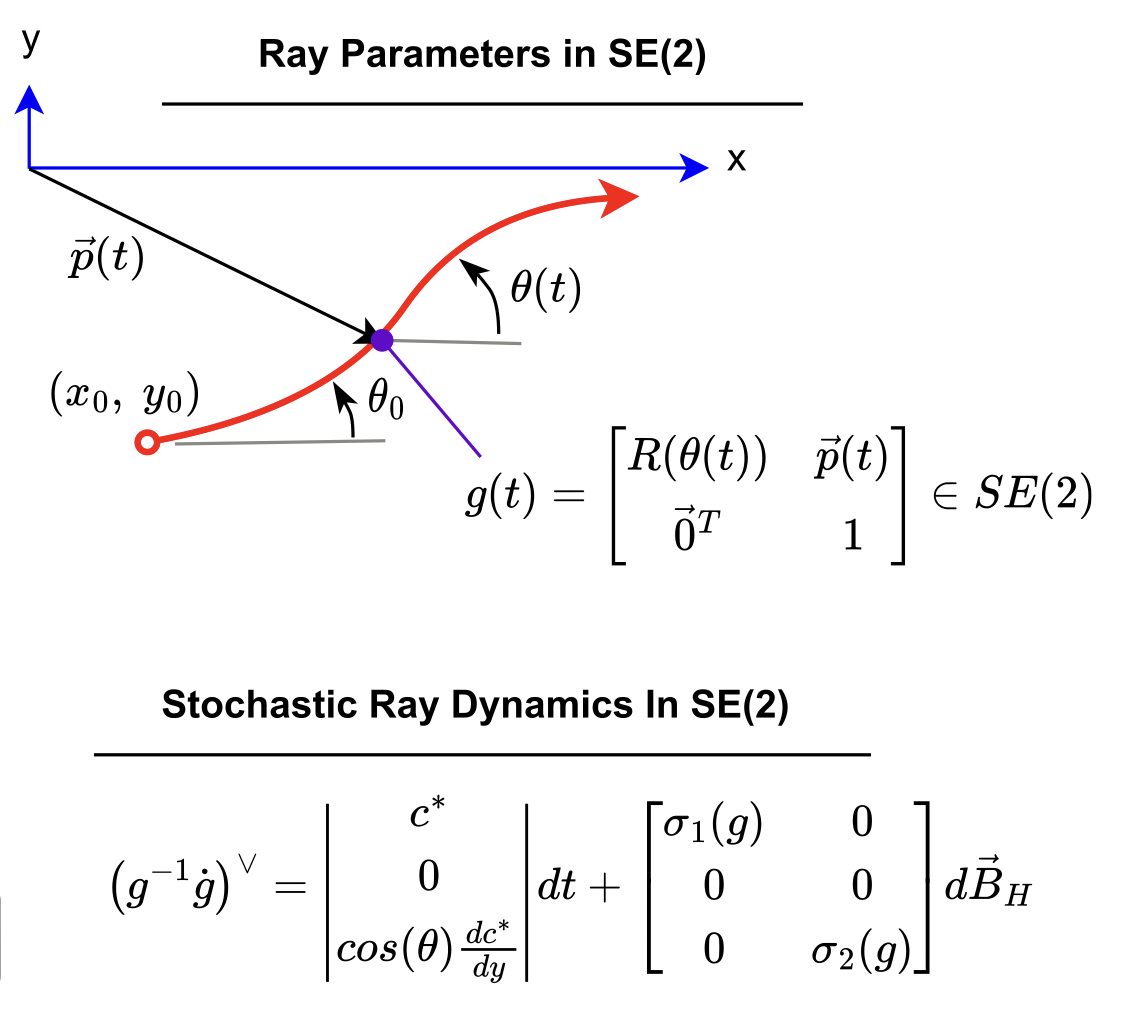
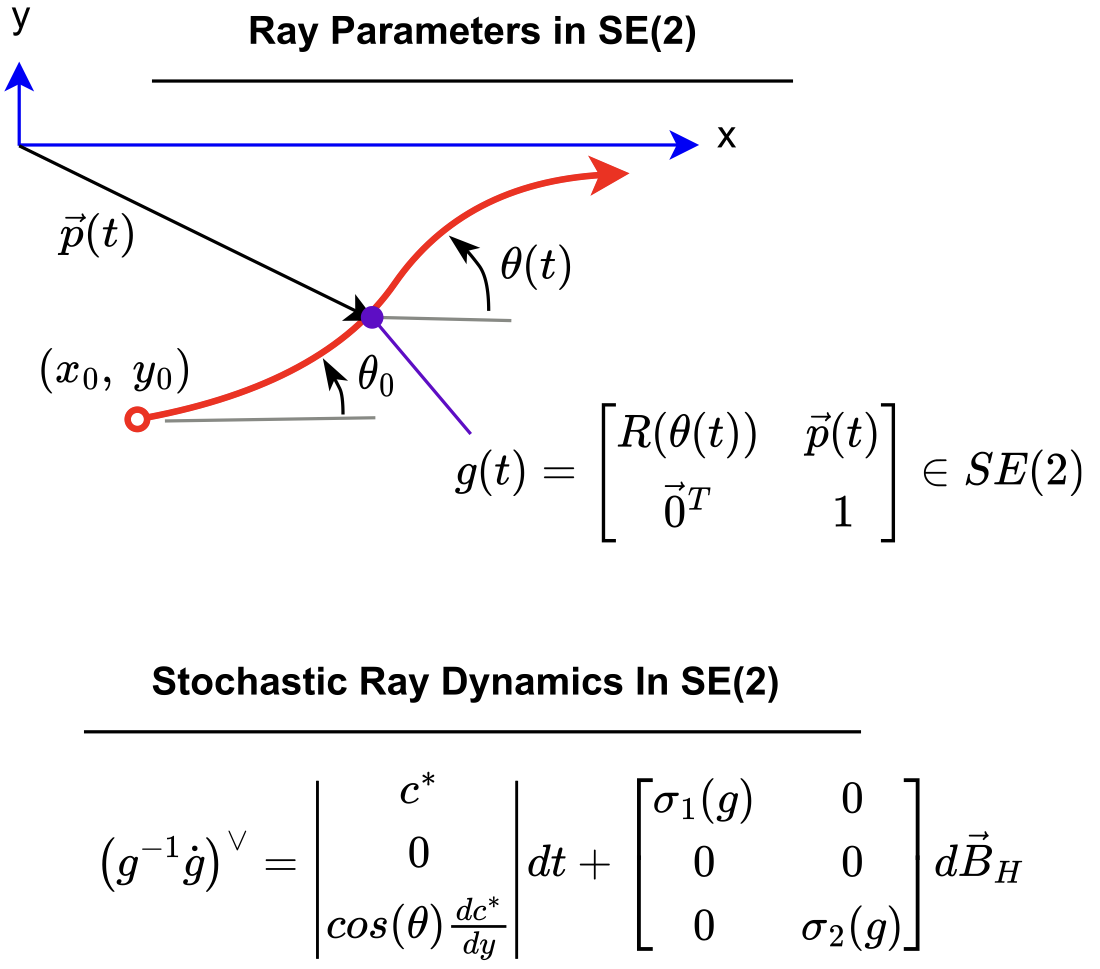
more updates and figs

diff --git a/research.html b/research.html
@@ -9,11 +9,12 @@ classes: wide
 
 
 
+<h2>Models</h2>
+
+<h3>My work uses two types of models</h3>
 
 
-<h2>Research: Models</h2>
-
-My work uses two types of models.  The first type captures the properties of the environment (e.g., bathymetry, acoustic energy propagation) or the motion of a robot within that environment (e.g., underwater vehicle dynamics).  These methods address the adaptive sampling problem, in which marine robots build models in real time and use them to determine where to sample to maximize efficiency.  These models allow robots to interpret tangible environmental features in a quantifiable and useful way, while also estimating their own dynamics in real time to inform decision-making and control.
+The first type captures the properties of the environment (e.g., bathymetry, acoustic energy propagation) or the motion of a robot within that environment (e.g., underwater vehicle dynamics).  These methods address the adaptive sampling problem, in which marine robots build models in real time and use them to determine where to sample to maximize efficiency.  These models allow robots to interpret tangible environmental features in a quantifiable and useful way, while also estimating their own dynamics in real time to inform decision-making and control.
 
 
 
@@ -31,7 +32,17 @@ My work uses two types of models.  The first type captures the properties of the
 
 The second type of model captures the process of arriving at an (often) optimal decision and determining how to adjust actuators to achieve that action.  These methods span several foundational areas of artificial intelligence: planning, optimization, and control.  With this understanding, robots can be equipped with intelligence to make effective decisions when interacting with the world.
 
-Figs: CBPA (2 figures)
+
+<div class="side-by-side">
+  <div class="image-column">
+    <img src="/assets/images/CBPA_overview.png" alt="CBPA model">
+    <p class="caption">A <a href="https://doi.org/10.48550/arXiv.2511.02147">hierarchical model</a> of distributed multi-robot autonomy that uses opinion dynamics, multi-objective behavior optimization, and low level control.  The <a href="https://doi.org/10.1109/ICRA57147.2024.10611032">autonomy stack</a> is replicated on each vehicle.</p>
+  </div>
+  <div class="image-column">
+    <img src="/assets/images/model_taxa.png" alt="Model Taxa">
+    <p class="caption">Relationship of this <a href="https://doi.org/10.48550/arXiv.2511.02147">new model</a> to existing methods. </p>
+  </div>
+</div>
 
 
 
